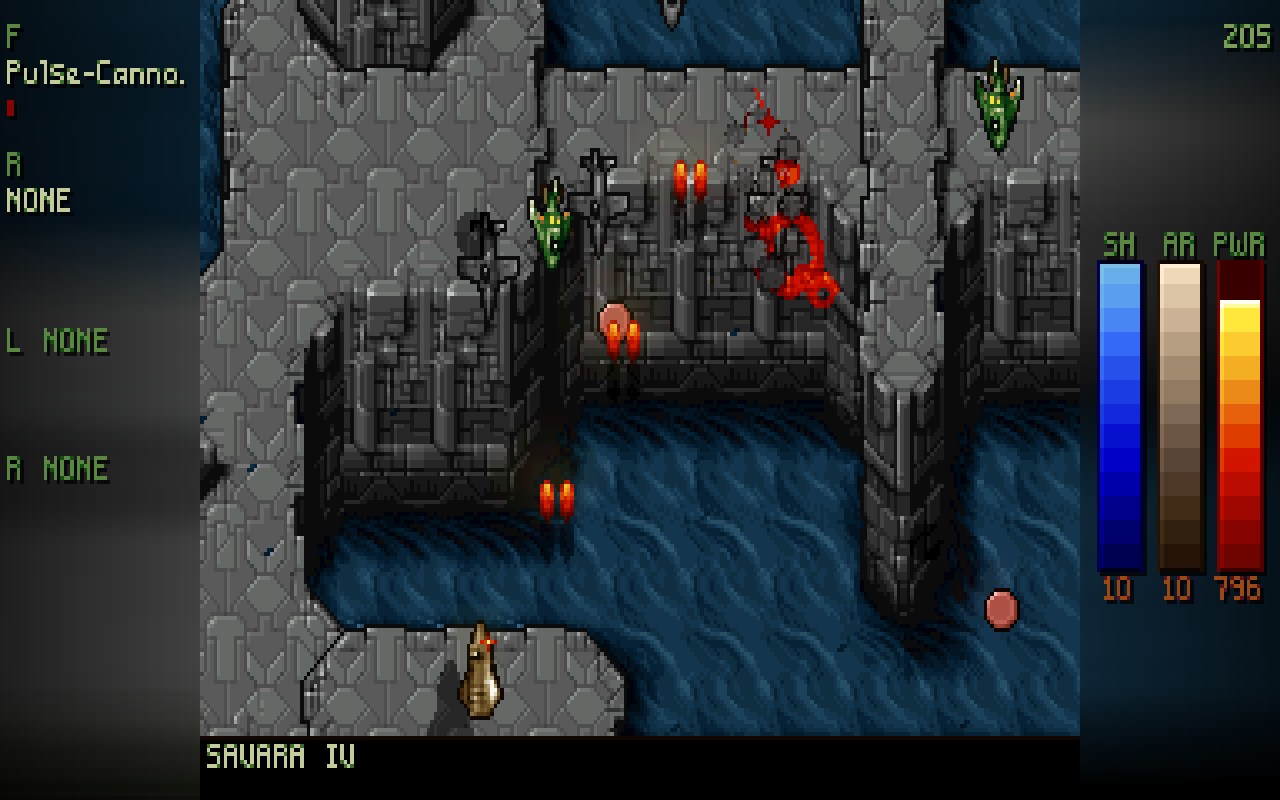
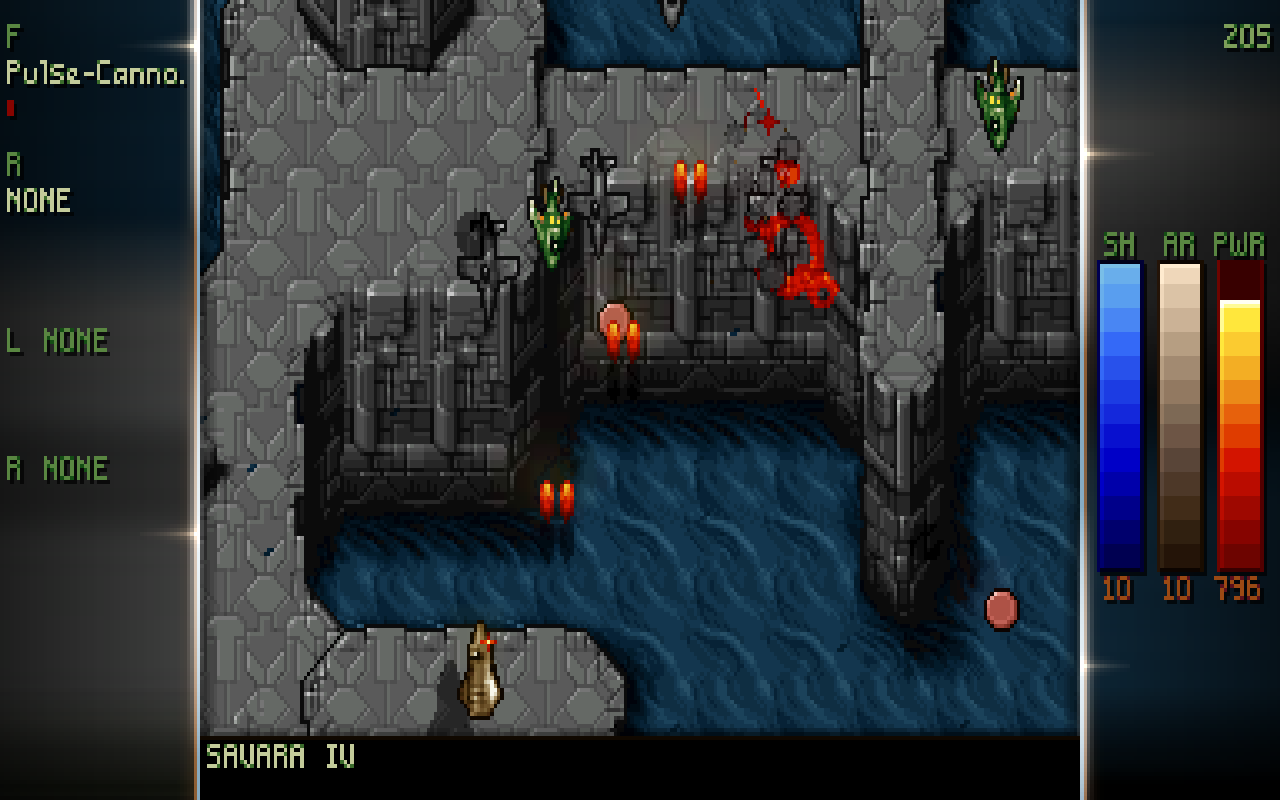
README: describe the bevelled HUD and refresh gameplay and Deck screenshots

Changed region(s): [[0.125, 0.0, 0.3438, 1.0], [0.8125, 0.0, 0.875, 1.0], [0.375, 0.9062, 0.4688, 0.9375]]

diff --git a/README.md b/README.md
@@ -24,12 +24,12 @@ install **Tyrian 2000** separately through the launcher.
 </p>
 
 <p align="center">
-  <img src="docs/screenshots/hero.png" alt="Tyrian 2.1 SAVARA IV in 16:9 with the Modern side HUD, lighting and effects" width="100%">
+  <img src="docs/screenshots/hero.png" alt="Tyrian 2.1 SAVARA IV in 16:9 with the Modern bevelled glass HUD, lighting and effects" width="100%">
   <br><sub>SAVARA IV · Modern HUD · 16:9</sub>
 </p>
 
 <p align="center">
-  <img src="docs/screenshots/arcade.png" alt="Tyrian 2.1 TYRIAN in one-player Arcade mode, 16:9, with the Modern HUD and extra lives" width="100%">
+  <img src="docs/screenshots/arcade.png" alt="Tyrian 2.1 TYRIAN in one-player Arcade mode, 16:9, with the Modern bevelled glass HUD" width="100%">
   <br><sub>TYRIAN · Arcade · Modern HUD · 16:9</sub>
 </p>
 
@@ -73,7 +73,8 @@ Select **Classic** or **Modern** in *Setup → Graphics → Presentation*.
 Both games support Modern mode:
 
 - **Widescreen** from 4:3 to 32:9, with automatic display aspect detection.
-- **Glass side HUD** for campaign and arcade modes, including two players.
+- **Bevelled glass HUD** with glowing edges, light glints and inset shadows,
+  for campaign and arcade modes, including two players.
 - **Smooth motion** at the display refresh rate, bloom, dynamic lighting and VFX.
 - **Sharp scaling and HiDPI output**, preserving the original pixel aspect.
 - **Gamepad support**, remappable buttons, analog movement and hot-plugging.
@@ -89,7 +90,7 @@ to 25% speed; `--starfield-speed=100` restores the upstream rate.
 ## <img src="docs/readme/h-deck.svg" alt="Steam Deck" width="100%">
 
 <p align="center">
-  <img src="docs/screenshots/steam-deck.png" alt="Steam Deck showing SAVARA IV in Modern mode at its native 16:10 aspect, with black screen bezels preserved" width="100%">
+  <img src="docs/screenshots/steam-deck.png" alt="Steam Deck showing SAVARA IV with the bevelled glass HUD at its native 16:10 aspect, with black screen bezels preserved" width="100%">
   <br><sub>SAVARA IV · Modern HUD · Steam Deck 16:10</sub>
 </p>
 

diff --git a/docs/screenshots/README.md b/docs/screenshots/README.md
@@ -1,6 +1,7 @@
 # README screenshots
 
-Gameplay captures use only the freeware **Tyrian 2.1** data. The launcher uses
+Gameplay captures show the current bevelled glass HUD and use only the freeware
+**Tyrian 2.1** data. The launcher uses
 art generated for this port; it loads no Tyrian 2000 data.
 
 | File | Capture |
